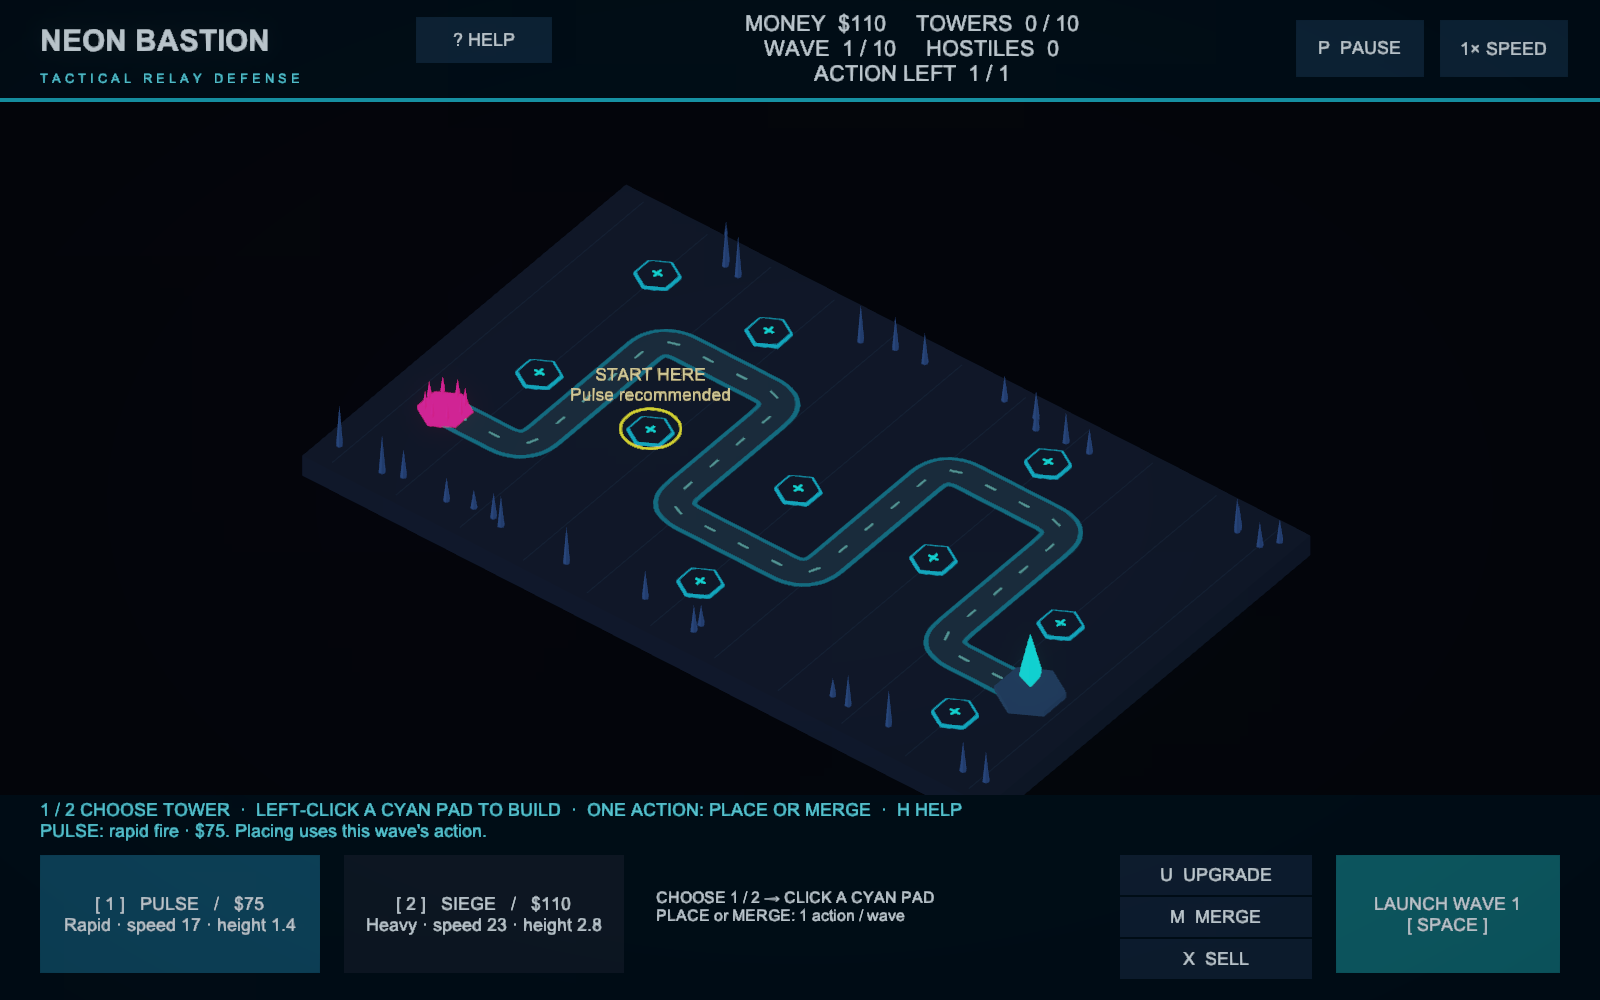
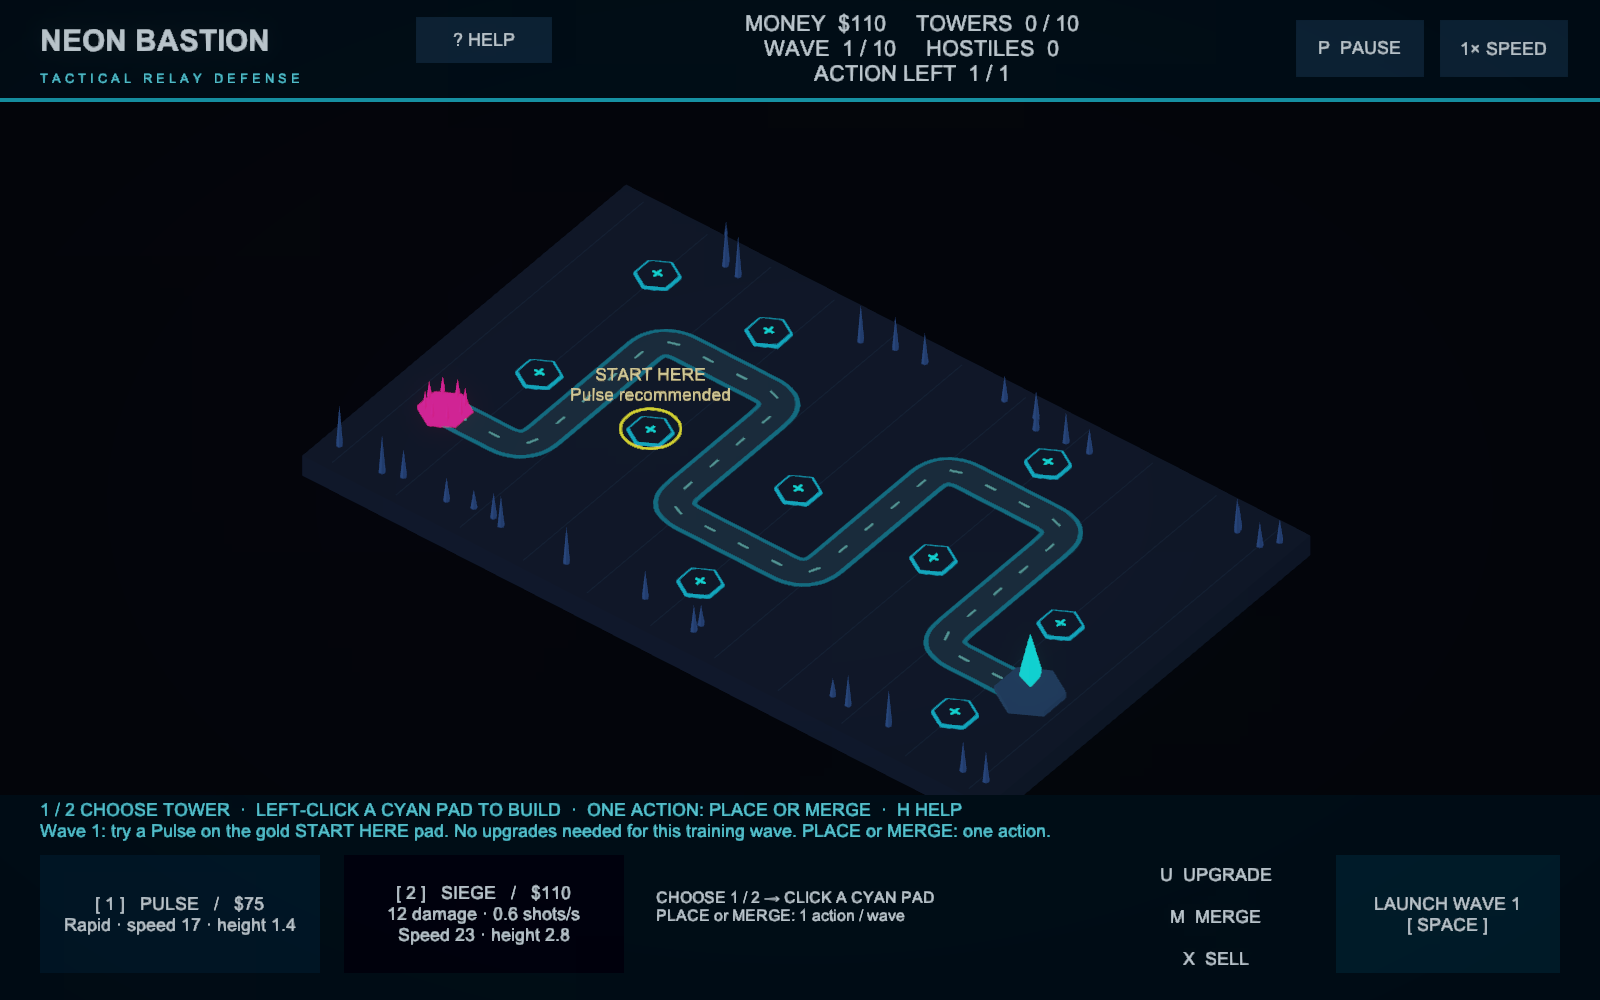
Give Siege towers slower, harder-hitting shells

Changed region(s): [[0.0, 0.806, 0.6562, 0.992], [0.8125, 0.837, 1.0, 0.992]]

diff --git a/Assets/Defense/DefenseHUD.cs b/Assets/Defense/DefenseHUD.cs
@@ -21,7 +21,7 @@ public class DefenseHUD : MonoBehaviour
     public int TutorialPage => tutorialPage;
     private static readonly string[] TutorialTitles={"CHOOSE YOUR TOWER","PLACE ON A CYAN PAD","KILLS EARN MONEY","UPGRADE YOUR DEFENSE","MERGE OR BUILD"};
     private static readonly string[] TutorialBodies={
-        "You start with $110.\n\nPULSE — $75: rapid fire, useful against Scouts and motorcycles.\nSIEGE — $110: heavier shots for armored enemies and trucks.\n\nClick a tower card at the bottom, or press 1 for Pulse / 2 for Siege.\nFor your first tower, try a Pulse on the gold START HERE pad.\nWave 1 is a slower training wave; upgrades are optional.",
+        "You start with $110.\n\nPULSE — $75: rapid fire, useful against Scouts and motorcycles.\nSIEGE — $110: 12-damage shells, one shot every 1.67 seconds.\n\nClick a tower card at the bottom, or press 1 for Pulse / 2 for Siege.\nFor your first tower, try a Pulse on the gold START HERE pad.\nWave 1 is a slower training wave; upgrades are optional.",
         "Move the pointer over a glowing CYAN HEXAGON on the board.\nLEFT-CLICK the pad to place your selected tower.\n\nPlacing a tower uses this wave's action. Choose PLACE or MERGE — ONE shared action; you cannot do both.\nRoads, unmarked ground and occupied pads cannot take a new tower.\n\nPress SPACE or LAUNCH WAVE when your defense is ready.\nClearing the wave unlocks ONE new action for the next wave.",
         "Every defeated enemy immediately adds cash to MONEY at the top.\nWatch for the gold +$ reward above the enemy.\n\nScout $10  /  Runner $15  /  Motorcycle $20\nArmored $25  /  Siege $100  /  Truck $120\n\nSave cash to buy your next wave's tower or improve an existing one.\nUnspent money carries over. There is no free wave-clear bonus.",
         "LEFT-CLICK a placed tower to select it and see its range and stats.\nClick UPGRADE or press U when you can afford it.\n\nLevel 2 costs $45. Level 3 costs $90.\nEach upgrade adds damage, firing speed, range and 0.8 units of height.\n\nExample: a $75 Pulse leaves $35. One Scout kill adds $10 —\nyou now have the $45 needed for your first upgrade!",
@@ -151,7 +151,7 @@ public class DefenseHUD : MonoBehaviour
     {
         stats.text="MONEY  $"+game.Credits+"     TOWERS  "+game.Towers.Count+" / "+DefenseGame.TowerLimit+"\nWAVE  "+game.PlacementWave+" / "+DefenseGame.TotalWaves+"     HOSTILES  "+(game.Enemies.Count+game.SpawnRemaining)+"\nACTION LEFT  "+game.WaveActionsRemaining+" / 1";
         pulseText.text="[ 1 ]   PULSE   /   $75\nRapid · speed 17 · height 1.4";
-        siegeText.text="[ 2 ]   SIEGE   /   $110\nHeavy · speed 23 · height 2.8";
+        siegeText.text="[ 2 ]   SIEGE   /   $110\n12 damage · 0.6 shots/s\nSpeed 23 · height 2.8";
         pulseImage.color=game.SelectedTower==null && game.SelectedKind==TowerKind.Pulse ? new Color(.04f,.25f,.34f) : new Color(.055f,.08f,.14f);
         siegeImage.color=game.SelectedTower==null && game.SelectedKind==TowerKind.Siege ? new Color(.28f,.18f,.055f) : new Color(.055f,.08f,.14f);
         pulseButton.interactable=siegeButton.interactable=game.CanBuild && !game.Paused && game.PlacementsRemaining>0;

diff --git a/Assets/Defense/DefenseTower.cs b/Assets/Defense/DefenseTower.cs
@@ -21,11 +21,11 @@ public class DefenseTower : MonoBehaviour
             return bounds;
         }
     }
-    public float FireRate => (Kind==TowerKind.Pulse ? 2.4f : .75f)*(1f+.2f*(Level-1))*(1f+.1f*FusionBonus);
+    public float FireRate => (Kind==TowerKind.Pulse ? 2.4f : .6f)*(1f+.2f*(Level-1))*(1f+.1f*FusionBonus);
     public float ProjectileSpeed => Kind==TowerKind.Pulse ? 17f : 23f;
     public float Height => (Kind==TowerKind.Pulse ? 1.4f : 2.8f)+.8f*(Level-1)+.65f*FusionBonus;
     public float Range => (Kind==TowerKind.Pulse ? 10.5f : 14f)+.6f*(Level-1)+Mathf.Min(3f,.6f*(MergedUnits-1));
-    public float Damage => (Kind==TowerKind.Pulse ? 1.15f : 4.5f)*(1f+.4f*(Level-1))*MergedUnits;
+    public float Damage => (Kind==TowerKind.Pulse ? 1.15f : 12f)*(1f+.4f*(Level-1))*MergedUnits;
     public int UpgradeCost => 45*Level;
     public int ShotsFired { get; private set; }
     public Transform Muzzle { get; private set; }

diff --git a/README.md b/README.md
@@ -56,10 +56,10 @@ The guide opens from the title screen and can be reopened with **H** or **? HELP
 | Stat at level 1 | Pulse | Siege |
 | --- | --- | --- |
 | Placement cost | 75 | 110 |
-| Shots per second | 2.4 | 0.75 |
+| Shots per second | 2.4 | 0.6 |
 | Projectile speed | 17 units/s | 23 units/s |
 | Turret height | 1.4 units | 2.8 units |
-| Damage per hit | 1.15 | 4.5 |
+| Damage per hit | 1.15 | 12 |
 | Range | 10.5 units | 14 units |
 
 Towers can reach level 3. Each level increases damage, fire rate, range, and actual turret height by **0.8 units**. The column extends and the firing muzzle rises; glowing collars mark upgrades. Upgrades cost $45 and $90. Selling returns 70% of the tower's total investment but never restores a used wave allowance. You cannot sell your last tower when no replacement placement remains.
